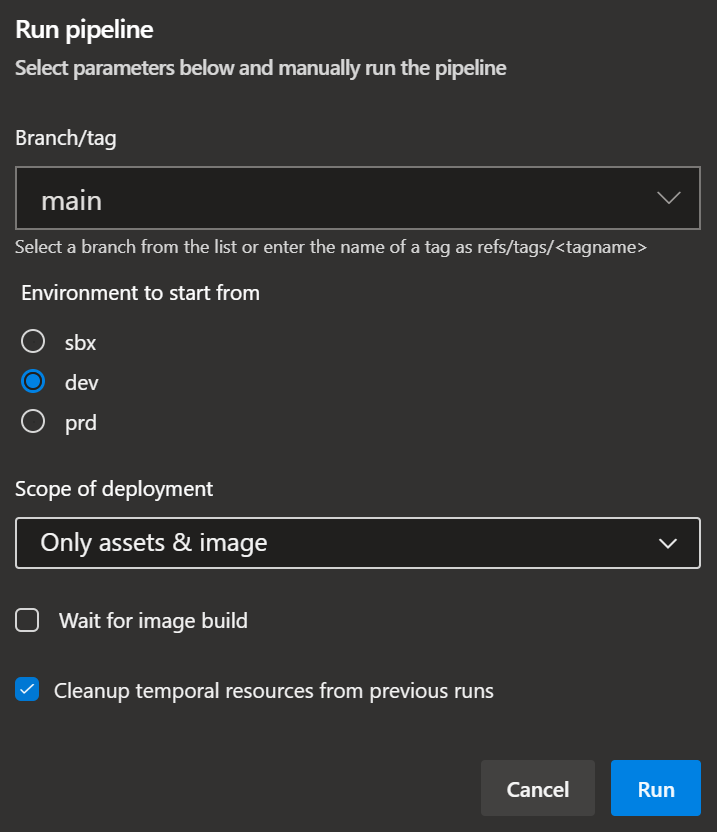
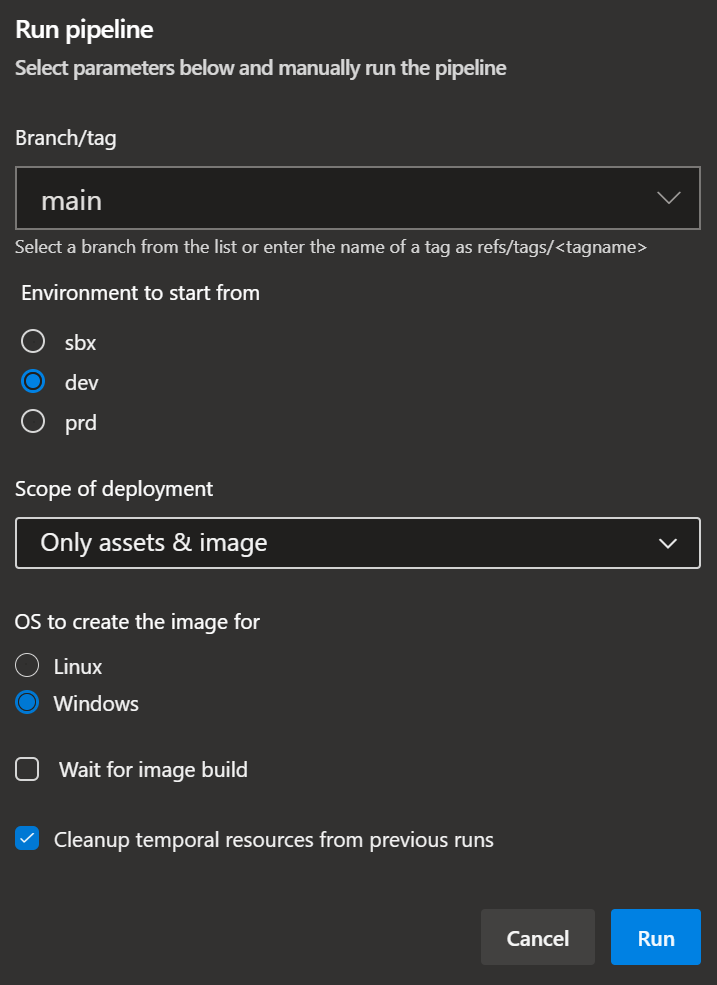
Updated docs

diff --git a/docs/wiki/Creating images with the Azure Image Builder.md b/docs/wiki/Creating images with the Azure Image Builder.md
@@ -48,7 +48,7 @@ The image creation uses several components:
 
 > _**NOTE:**_ The construct was build with multiple environments and staging in mind. To this end, pipeline variable files contain one variable per suggested environment (for example `vmImage_sbx` & `vmImage_dev`) which is automatically referenced by the corresponding stage. For details on how to work with and configure these variables, please refer to this [section](./Staging).
 >
-> For the rest of the documentation we will ignore these environments and just refer to the simple variable or parameter file to avoid confusion around which file we refer to. All concepts apply to all files, no matter the environment/stage.
+> For the rest of the documentation we will ignore these environments and just refer to the simple variable or parameter/deployment file to avoid confusion around which file we refer to. All concepts apply to all files, no matter the environment/stage.
 
 ## File structure & flow
 
@@ -70,7 +70,7 @@ This section gives you an overview of the solution's structure, that is, how its
 > **Note:** All files are written in a way that should make modifications easy. However, to help you get started, please take not of the following recommendations:
 > - If you want to add additional logic to your pipeline, make sure to modify the `pipeline.jobs.yml` template to ensure that the added / modified steps are applied equally across all stages.
 > - If you want to add additional resources to your deployment, make sure to modify the `image.deploy.bicep` file to ensure that the added / modified resources are applied to all environments equally. If you further want to ensure your template remains flexible, you can add additional parameters you can then reference from the `<env>.image.bicep` file.
-> - If you want to modify any of the existing module templates and discover a property you want to use is missing, you can simply add it to the corresponding module. However, to use it, make sure to not only add a parameter for your new property to the module, but also give it a value by providing it in the `image.deploy.bicep` file.
+> - If you want to modify any of the existing module templates and discover a property you want to use is missing, you can simply add it to the corresponding module. However, to use it, make sure to not only add a parameter/deployment for your new property to the module, but also give it a value by providing it in the `image.deploy.bicep` file.
 
 # Process
 
@@ -85,23 +85,23 @@ To prepare the construct for usage you have to perform two fundamental steps:
 
 For this step you have to update these files to your needs:
 - `.azuredevops\azureImageBuilder\variables.yml`
-- `constructs\azureImageBuilder\deploymentFiles\<env>.image.bicep`
+- `constructs\azureImageBuilder\deploymentFiles\<env>.image.<osType>.bicep`
 
 ### Variables
 The first file, `variables.yml`, is a pipeline variable file. You should update at least the values:
 - `vmImage`: Set this to for example `ubuntu-latest` to leverage Microsoft-hosted agents. Leave it empty (`''`) if you use self-hosted agents. Do not remove it.
 - `poolName`: Set this to for example `myHostPool` to leverage your self-hosted agent pool. Leave it empty (`''`) if you use Microsoft-hosted agents. Do not remove it.
 - `serviceConnection`: This refers to your Azure DevOps service connection you use for your deployments. It should point into the subscription you want to deploy into.
-- `deploymentMetadataLocation`: The location to store deployment metadata in. The location of the resources it specified directly in the deployment/parameter file.
+- `deploymentMetadataLocation`: The location to store deployment metadata in. The location of the resources it specified directly in the deployment/parameter/deployment file.
 
 ### Parameters
-Next, we have one deployment file, `<env>.image.bicep` that hosts to the two phases in the deployment: Deploy all infrastructure components & build the image.
+Next, we have one deployment file per OS, `<env>.image.<osType>.bicep` which contain the configuration for the infrastructure & image creation deployment.
 
-The file comes with out-of-the box parameters that you can use aside from a few noteworthy exceptions: Update any name of a resource that is deployed and must be globally unique (for example storage accounts).
+Each file comes with out-of-the box parameters that you can use aside from a few noteworthy exceptions: Update any name of a resource that is deployed and must be globally unique (for example storage accounts).
 
-> **Note:** To keep the parameter files as simple as possible, all values that don't necessarily need you attention are hardcoded as default values in the corresponding template files. To get an overview about these 'defaults', you can simply navigate from the parameter file to the linked template.
+> **Note:** To keep the parameter/deployment files as simple as possible, all values that don't necessarily need you attention are hardcoded as default values in the corresponding template files. To get an overview about these 'defaults', you can simply navigate from the parameter/deployment file to the linked template.
 
-The parameter files are created with a Linux-Image in mind. However, they also contain examples on how the same implementation would look like for Windows images. Examples are always commented and can be used to replace the currently not commented values.
+The parameter/deployment files are created with a Linux-Image in mind. However, they also contain examples on how the same implementation would look like for Windows images. Examples are always commented and can be used to replace the currently not commented values.
 
 As the deployments leverage [`AVM`](https://aka.ms/avm) modules you can find a full list of all supported parameters per module in that [repository's](https://www.github.com/Azure/bicep-registry-modules) modules. A valid example may be that you want to deploy the Image Template into a specific subnet for networking access. This and several other parameters are available and documented in the module's `readme.md`.
 
@@ -131,7 +131,7 @@ For reference, in the provided Linux example we're looking at the following size
 
 The image template ultimately decides what happens during the image built. In this construct, it works in combination with the scripts provided in the `constructs\azureImageBuilder\scripts\uploads` folder.
 
-When you eventually trigger the pipeline, it will upload any script in the `uploads` folder to a dedicated storage account for the image building process using a deployment script and then execute it as per the configured steps in the Image Template's parameter file's `customizationSteps` parameter. For Linux we use for example the following two steps:
+When you eventually trigger the pipeline, it will upload any script in the `uploads` folder to a dedicated storage account for the image building process using a deployment script and then execute it as per the configured steps in the Image Template's parameter/deployment file's `customizationSteps` parameter. For Linux we use for example the following two steps:
 
 ```Bicep
 imageTemplateCustomizationSteps: [
@@ -153,6 +153,35 @@ imageTemplateCustomizationSteps: [
 ```
 
 By default, it first installs PowerShell on the target machine and then continues by executing the installation script. Feel free to modify the existing script, or add new ones with new customization steps as you see fit. You can find a full list of all available steps [here](https://docs.microsoft.com/en-us/azure/virtual-machines/linux/image-builder-json#properties-customize).
+
+> **NOTE:** If you don't want to build images for more than one OS you can remove the option from the pipelines by
+> 1. Removing the corresponding runtime parameter/deployment from the `.azuredevops/azureImageBuilder/pipeline.yml` pipeline file
+>   ```yaml
+>   - name: osType
+>     displayName: OS to create the image for
+>     type: string
+>     default: Linux
+>     values:
+>       - Linux
+>       - Windows
+>   ```
+> 1. Removing each pass thru of the `osType` runtime parameter to the inner `pipeline.jobs.yml` pipeline file from the `.azuredevops/azureImageBuilder/pipeline.yml` pipeline file
+>   ```yaml
+>   osType: '${{ lower(parameters.osType) }}'`
+>   ```
+> 1. Removing the corresponding template parameter/deployment from the inner `.azuredevops/azureImageBuilder/.templates/pipeline.jobs.yml` pipeline file
+>   ```yaml
+>   - name: osType
+>     default:
+>   ```
+> 1. Removing each reference of the `osType` parameter/deployment from the code in the inner `.azuredevops/azureImageBuilder/.templates/pipeline.jobs.yml` pipeline file
+>   ```yaml
+>   # Change from
+>   Join-Path '$(deploymentFilesPath)' '${{ parameters.environment }}.image.${{ parameters.  osType }}.bicep'
+>   # to
+>   Join-Path '$(deploymentFilesPath)' '${{ parameters.environment }}.image.bicep'
+>   ```
+> 1. Adjust your parameter/deployment files in `constructs/azureImageBuilder/deploymentFiles` to only contain names without the OS type embedded. For example, change `sbx.image.linux.bicep` to `sbx.image.bicep`
 
 </details>
 
@@ -199,14 +228,15 @@ So let's take a look at the different configuration options when running the pip
 | Runtime Parameter | Description | On first deployment | Additional notes |
 | - | - | - | - |
 | `Environment to start from` | The environment you want to start to deploy into as described [here](./Staging#3-run-the-pipeline)  | Set to `SBX` | |
-| `Scope of deployment` | Select whether you want to deploy all resources, all resources without triggering the image build, or only the image build | Set to deploy `All` or `Only base` resources | Overall you have the following options: <p> <li>**`All`**: Deploys all resources end-to-end including an image build</li><li>**`Only removal`**: Only removes previous image templates (and their AIB resource groups) that match the provided Image Template name and are not in state `running`. Further, terminated deployment scripts who's name starts with the `defaultPrefix` specified in the `<env>.image.bicep` file are removed. Is only executed if the `Pre-remove Image Template Resource Group` checkbox is selected too.</li><li>**`Only base`**: Deploys everything, but the image template. As such, no image is built</li><li>**`Only assets & image`**: Only uploads the latest installation files from the `uploads` folder and trigger an image build</li><li>**`Only image`**: Only trigger an image build</li> |
+| `Scope of deployment` | Select whether you want to deploy all resources, all resources without triggering the image build, or only the image build | Set to deploy `All` or `Only base` resources | Overall you have the following options: <p> <li>**`All`**: Deploys all resources end-to-end including an image build</li><li>**`Only removal`**: Only removes previous image templates (and their AIB resource groups) that match the provided Image Template name and are not in state `running`. Further, terminated deployment scripts who's name starts with the `defaultPrefix` specified in the `<env>.image.<osType>.bicep` file are removed. Is only executed if the `Pre-remove Image Template Resource Group` checkbox is selected too.</li><li>**`Only base`**: Deploys everything, but the image template. As such, no image is built</li><li>**`Only assets & image`**: Only uploads the latest installation files from the `uploads` folder and trigger an image build</li><li>**`Only image`**: Only trigger an image build</li> |
+| `OS to create image for` | Enables you to select which OS to create the image for. Based on the selection, a different parameter/deployment file with set name is used. | Select OS you want to create the image for | <ul><li>**`Linux`**: Will select a parameter/deployment file that follows the schema `<env>.image.linux.bicep`</li><li>**`Windows`**: `<env>.image.windows.bicep`</li></ul> |
 | `Wait for image build` |  Specify whether to wait for the image build process during the pipeline run or not. The process itself is triggered asynchronously. | De-Select |  You can use the 'Wait-ForImageBuild' script to check the status yourself (located at: `constructs\azureImageBuilder\scripts\image\Wait-ForImageBuild.ps1`). <p> To execute it you will need the image template name (output value of the image template deployment) and the resource group the image template was deployed into. Is only considered, if the `Scope of the deployment` includes an image build. |
-| `Pre-remove Image Template Resource Group` | Specify whether to remove previous image resources. This includes all Image Templates that match the naming schema defined in the parameter file - as long es their built is not in state `running`.  | De-select | |
+| `Pre-remove Image Template Resource Group` | Specify whether to remove previous image resources. This includes all Image Templates that match the naming schema defined in the parameter/deployment file - as long es their built is not in state `running`.  | De-select | |
 
 ### First deployment
 When triggering the pipeline for the first time for any environment, make sure you either select `All` or `Only base` for the `Scope of the deployment`. In either case the pipeline will deploy all resources and scripts you will subsequently need to create the images. For any subsequent run, you can go with any option you need.
 
-The steps the _Azure Image Builder_ performs on the image are defined by elements configured in the `customizationSteps` parameter of the image template parameter file. In our setup we reference one or multiple custom scripts that are uploaded by the template to a storage account ahead of the image deployment.
+The steps the _Azure Image Builder_ performs on the image are defined by elements configured in the `customizationSteps` parameter of the image template parameter/deployment file. In our setup we reference one or multiple custom scripts that are uploaded by the template to a storage account ahead of the image deployment.
 The scripts are different for the type of OS and hence are also stored in two different folders in the `azureImageBuilder` construct:
 
 - Linux:    `constructs\azureImageBuilder\scripts\uploads\linux`
@@ -235,7 +265,7 @@ Usually, when you will operate the pipeline you would want to either run in scop
 <details>
 <summary>Stacked images</summary>
 
-  Any time you run an image built you first have to decide whether you want to build an image from the ground up (using e.g. a marketplace image as the basis) or build on an existing custom image. In either case you have to configure the image template parameter file in question with regards to the `imageSource` parameter.
+  Any time you run an image built you first have to decide whether you want to build an image from the ground up (using e.g. a marketplace image as the basis) or build on an existing custom image. In either case you have to configure the image template parameter/deployment file in question with regards to the `imageSource` parameter.
   To reference a marketplace image use the syntax:
   ```Bicep
   {
